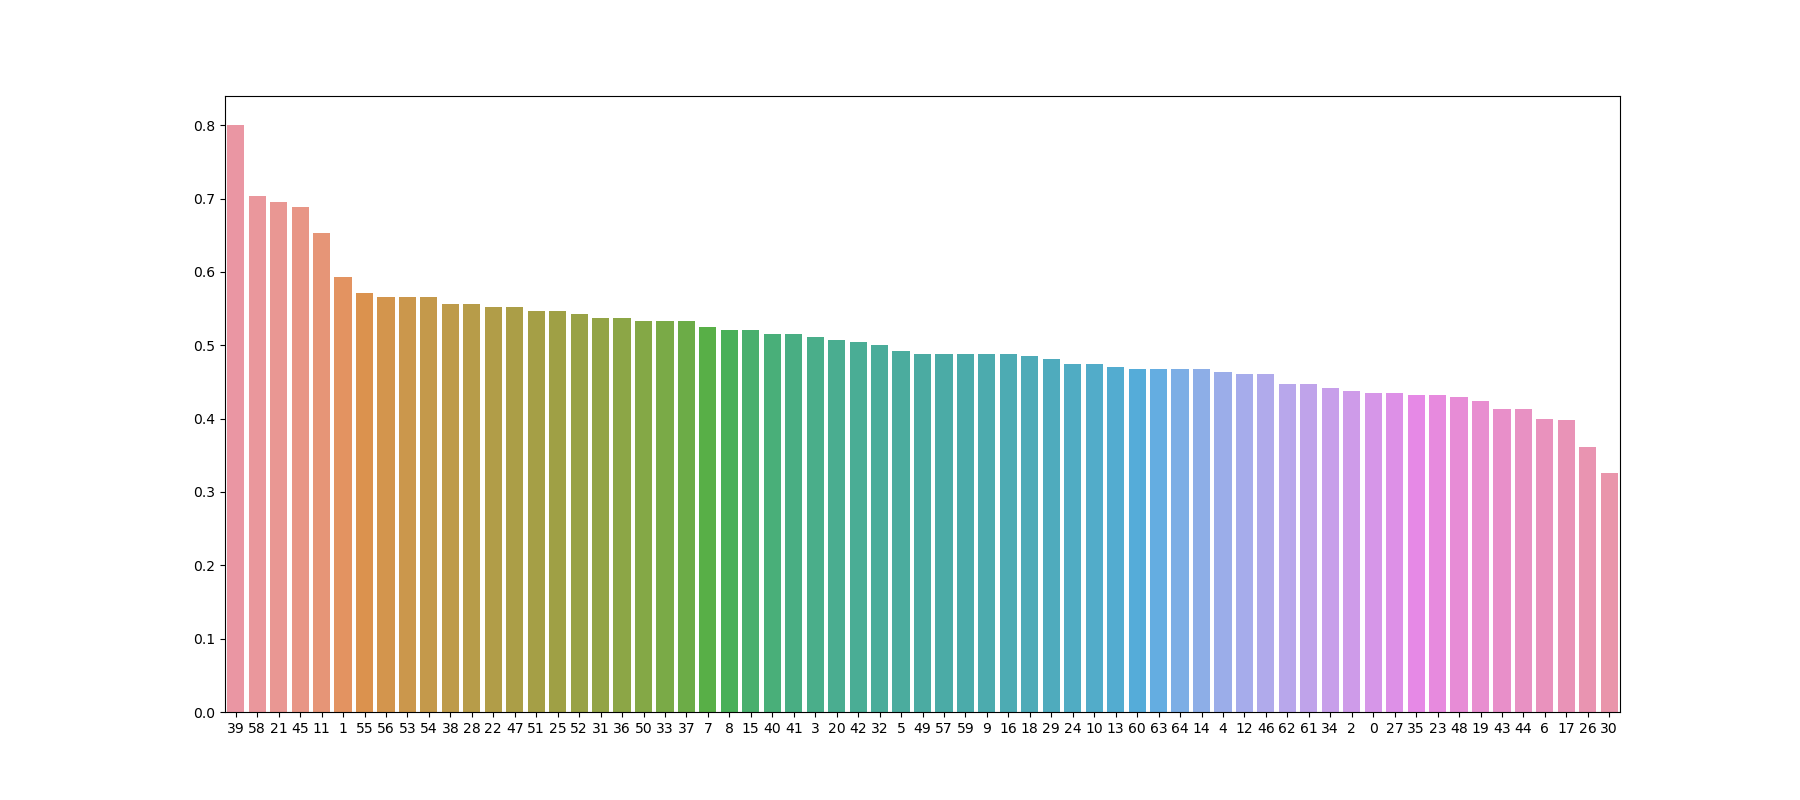
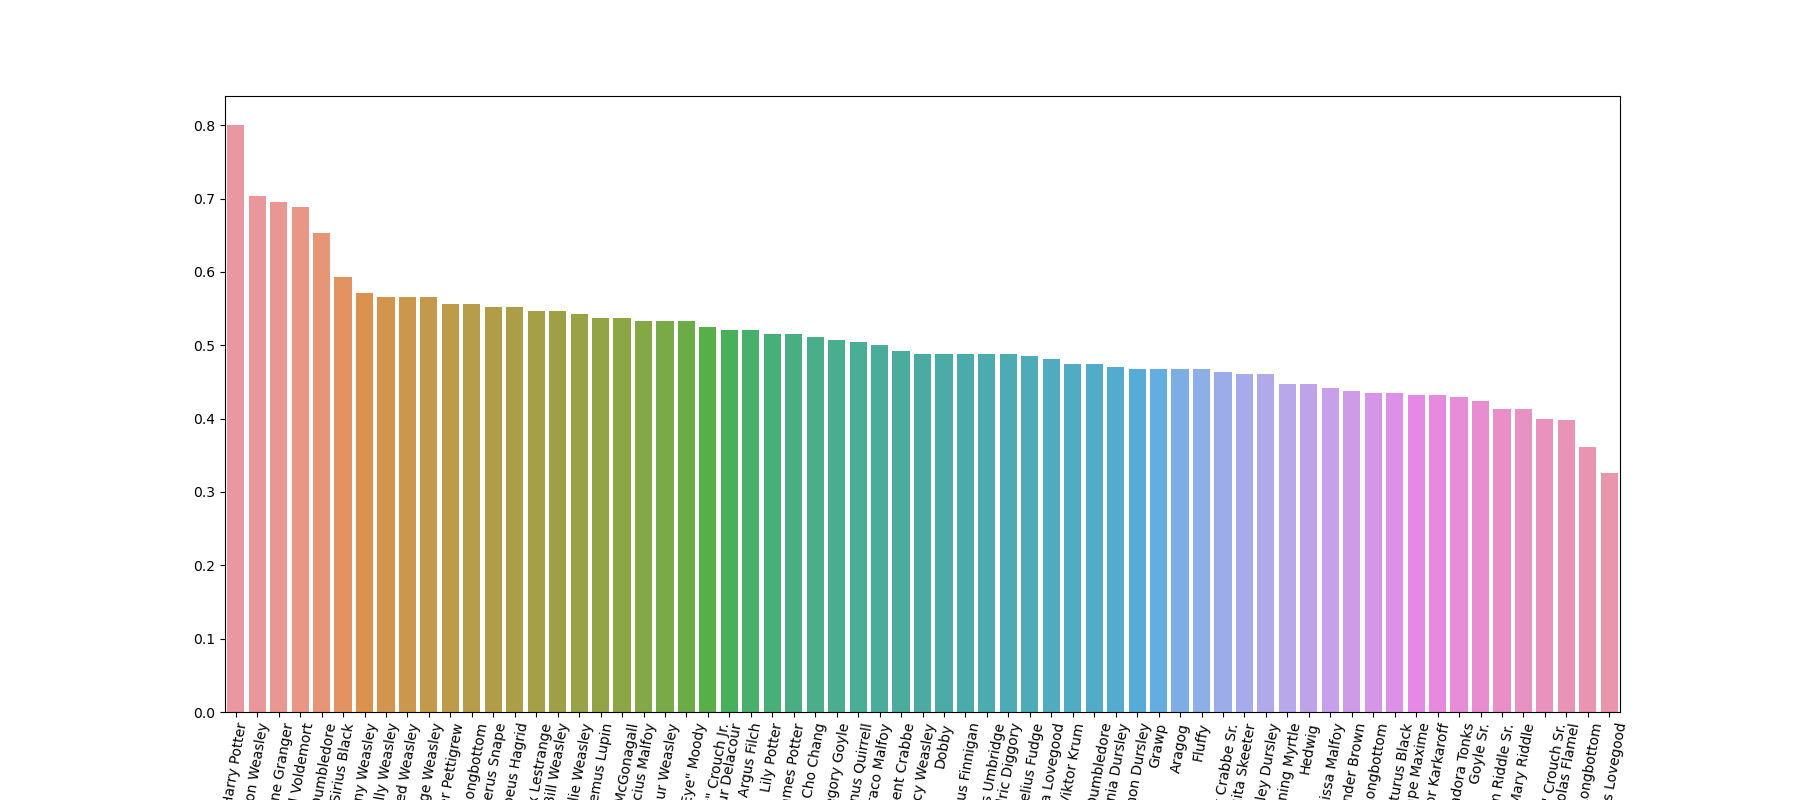
functions

Changed region(s): [[0.1244, 0.9062, 0.9022, 1.0]]

diff --git a/NetworkX.py b/NetworkX.py
@@ -15,12 +15,16 @@ def plot_centrality_by_key(centrality_type, graph):
         centrality = nx.eigenvector_centrality(graph)
 
     centrality_df = pd.DataFrame(centrality.items(), columns=["keys", "values"])
+    centrality_df["keys"] = centrality_df["keys"].replace(mapping, regex=True)
     plot_order = centrality_df.groupby('keys')['values'].sum().sort_values(ascending=False).index.values
 
     plt.figure(figsize=(18, 8))
-    sns.barplot(x=list(centrality.keys()), y=list(centrality.values()), order=plot_order)
+    sns.barplot(x=centrality_df["keys"].tolist(), y=centrality_df["values"].tolist(), order=plot_order)
+    plt.xticks(rotation=80)
+    plt.xlabel("Characters")
     plt.savefig("grafici/" + centrality_type + ".png")
     plt.title(centrality_type + " Centrality")
+    plt.tight_layout()
     plt.show()
 
 def plot_centrality_distribution(centrality_type, graph):
@@ -57,13 +61,13 @@ graph = nx.Graph()
 graph.add_edges_from(edges_list)
 pos = nx.spring_layout(graph)
 
-'''plt.figure(3, figsize=(20, 20))
+plt.figure(3, figsize=(20, 20))
 nx.draw_networkx_nodes(graph, nx.kamada_kawai_layout(graph), node_size=200)
 nx.draw_networkx_edges(graph, nx.kamada_kawai_layout(graph), edgelist=edges_list, edge_color='b', width=0.5)
 nx.draw_networkx_labels(graph, nx.kamada_kawai_layout(graph), labels=mapping, font_size=16,
                         font_family='sans-serif', font_weight='bold')
 plt.savefig('grafici/network_kamada')
-plt.show()'''
+plt.show()
 
 '''
 #closeness centrality
@@ -100,6 +104,11 @@ plot_order = clos_df.groupby('keys')['values'].sum().sort_values(ascending=False
 plt.figure(figsize=(18, 8))
 sns.histplot(list(clos.values()), kde=True)
 plt.show()'''
+
+plot_centrality_by_key("Betweeness", graph)
+plot_centrality_by_key("Closeness", graph)
+plot_centrality_by_key("Degree", graph)
+plot_centrality_by_key("Eigenvector", graph)
 
 plot_centrality_distribution("Betweeness", graph)
 plot_centrality_distribution("Closeness", graph)
